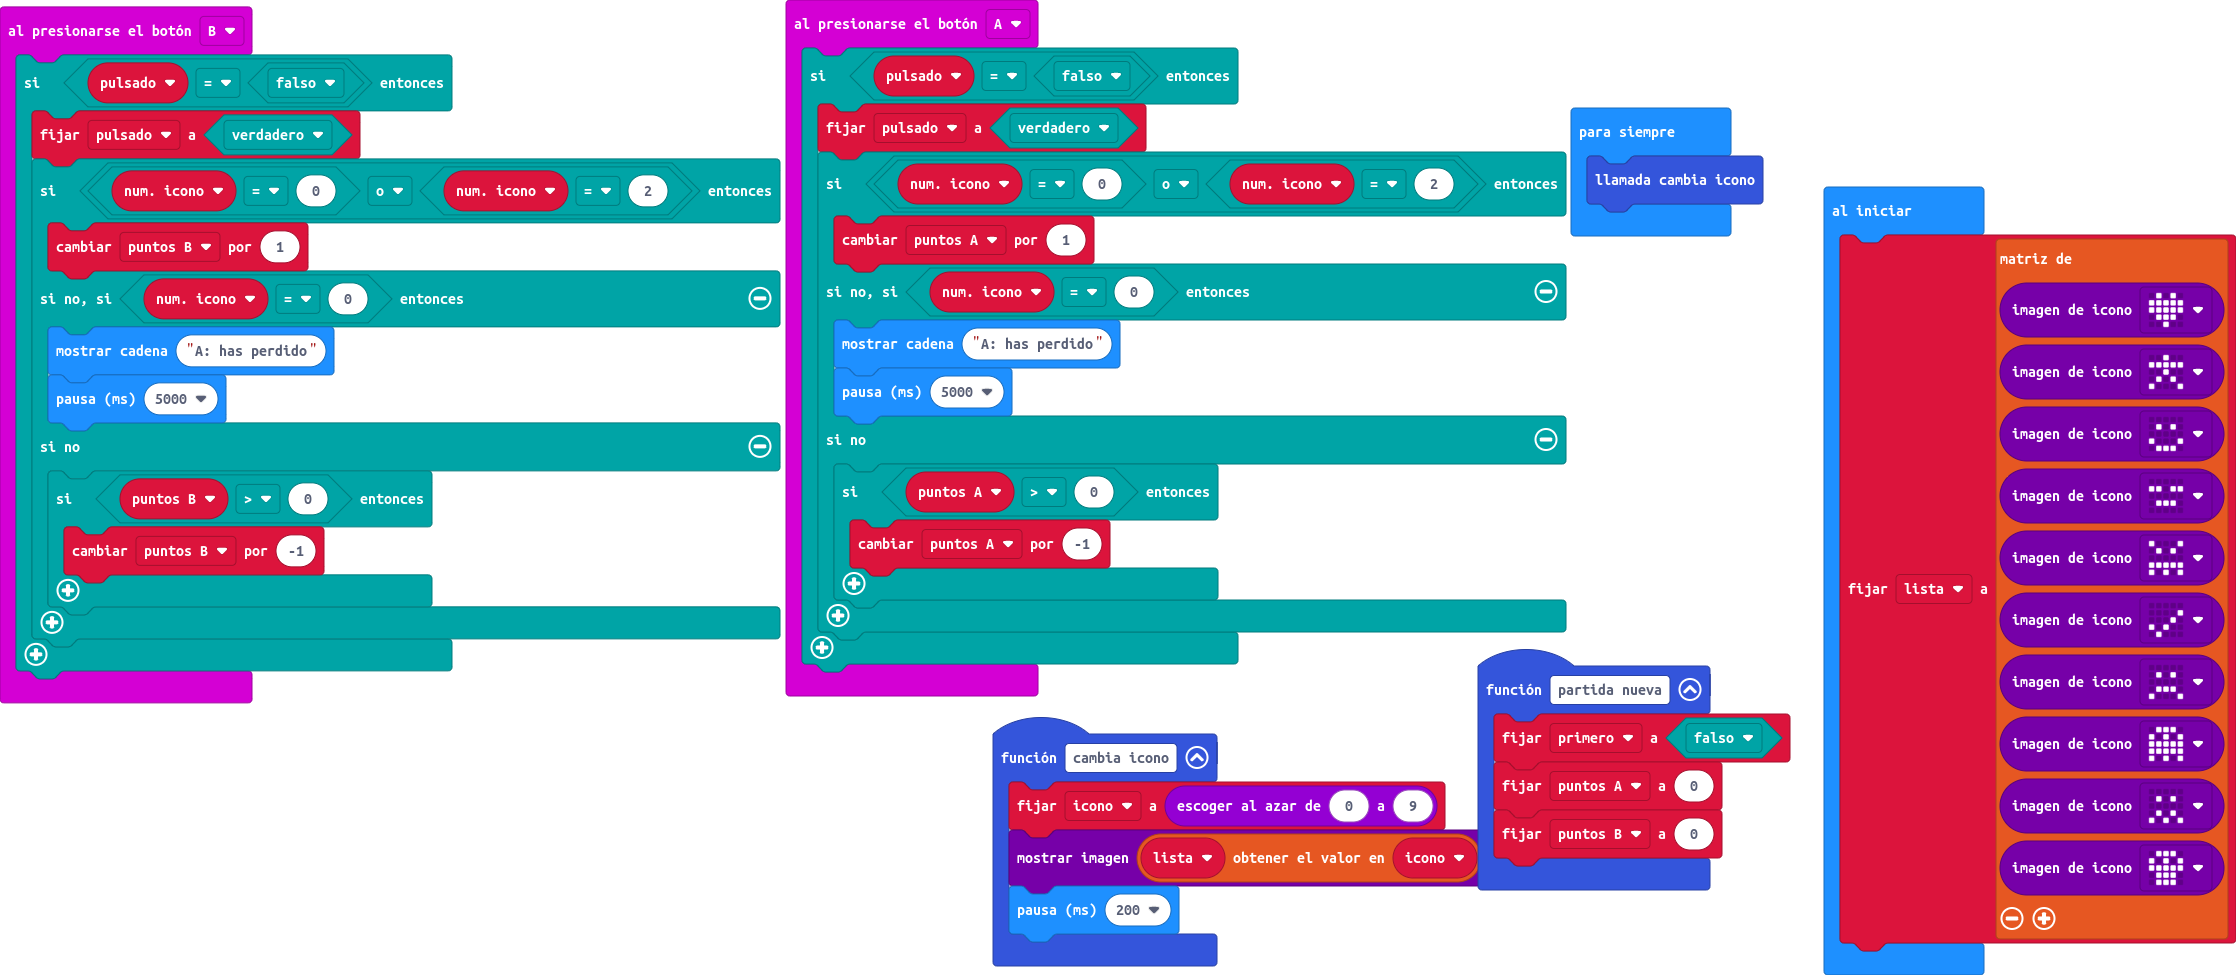
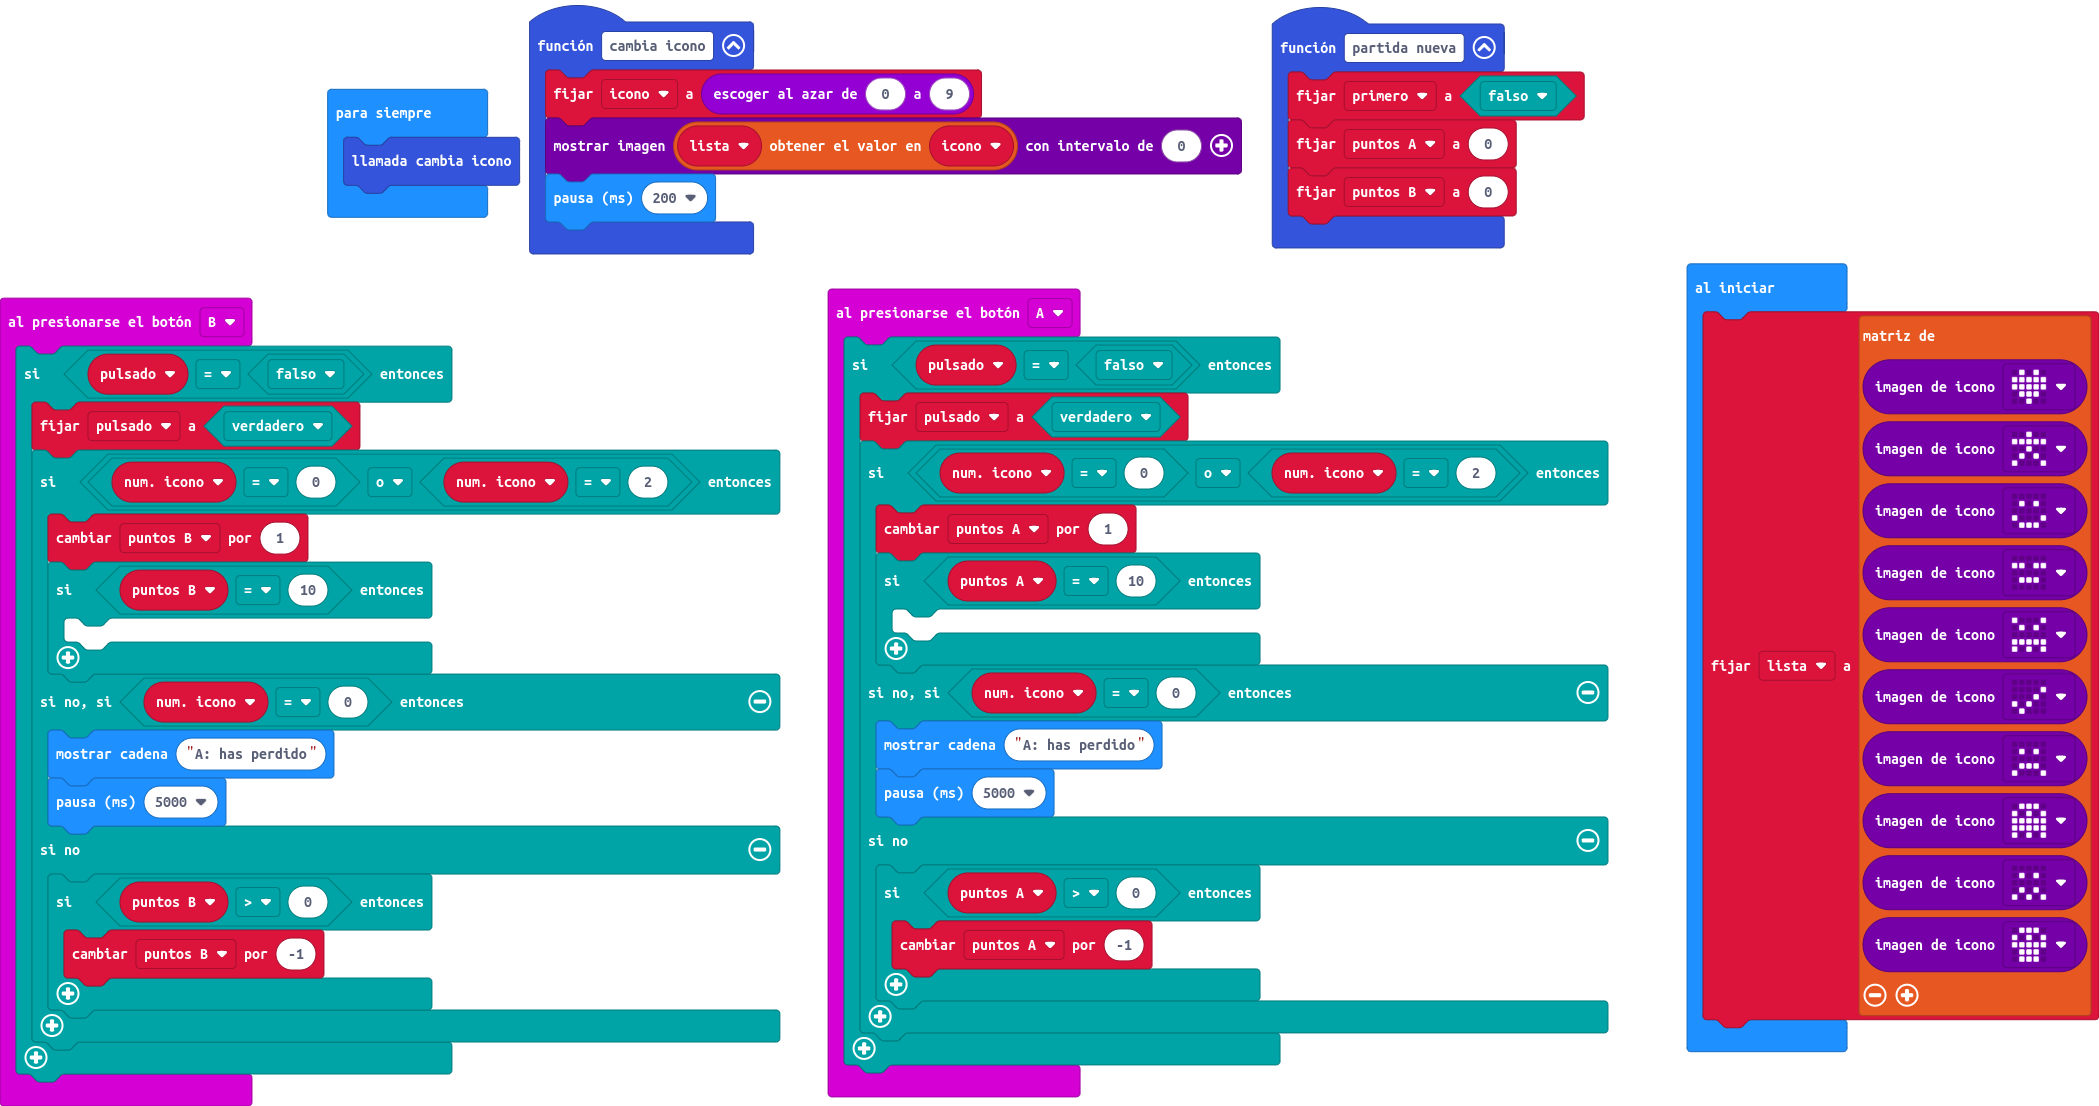
Actualizar main.blocks, main.ts

diff --git a/main.ts b/main.ts
@@ -3,6 +3,9 @@ input.onButtonPressed(Button.A, function () {
         pulsado = true
         if (num_icono == 0 || num_icono == 2) {
             puntos_A += 1
+            if (puntos_A == 10) {
+            	
+            }
         } else if (num_icono == 0) {
             basic.showString("A: has perdido")
             basic.pause(5000)
@@ -23,6 +26,9 @@ input.onButtonPressed(Button.B, function () {
         pulsado = true
         if (num_icono == 0 || num_icono == 2) {
             puntos_B += 1
+            if (puntos_B == 10) {
+            	
+            }
         } else if (num_icono == 0) {
             basic.showString("A: has perdido")
             basic.pause(5000)
